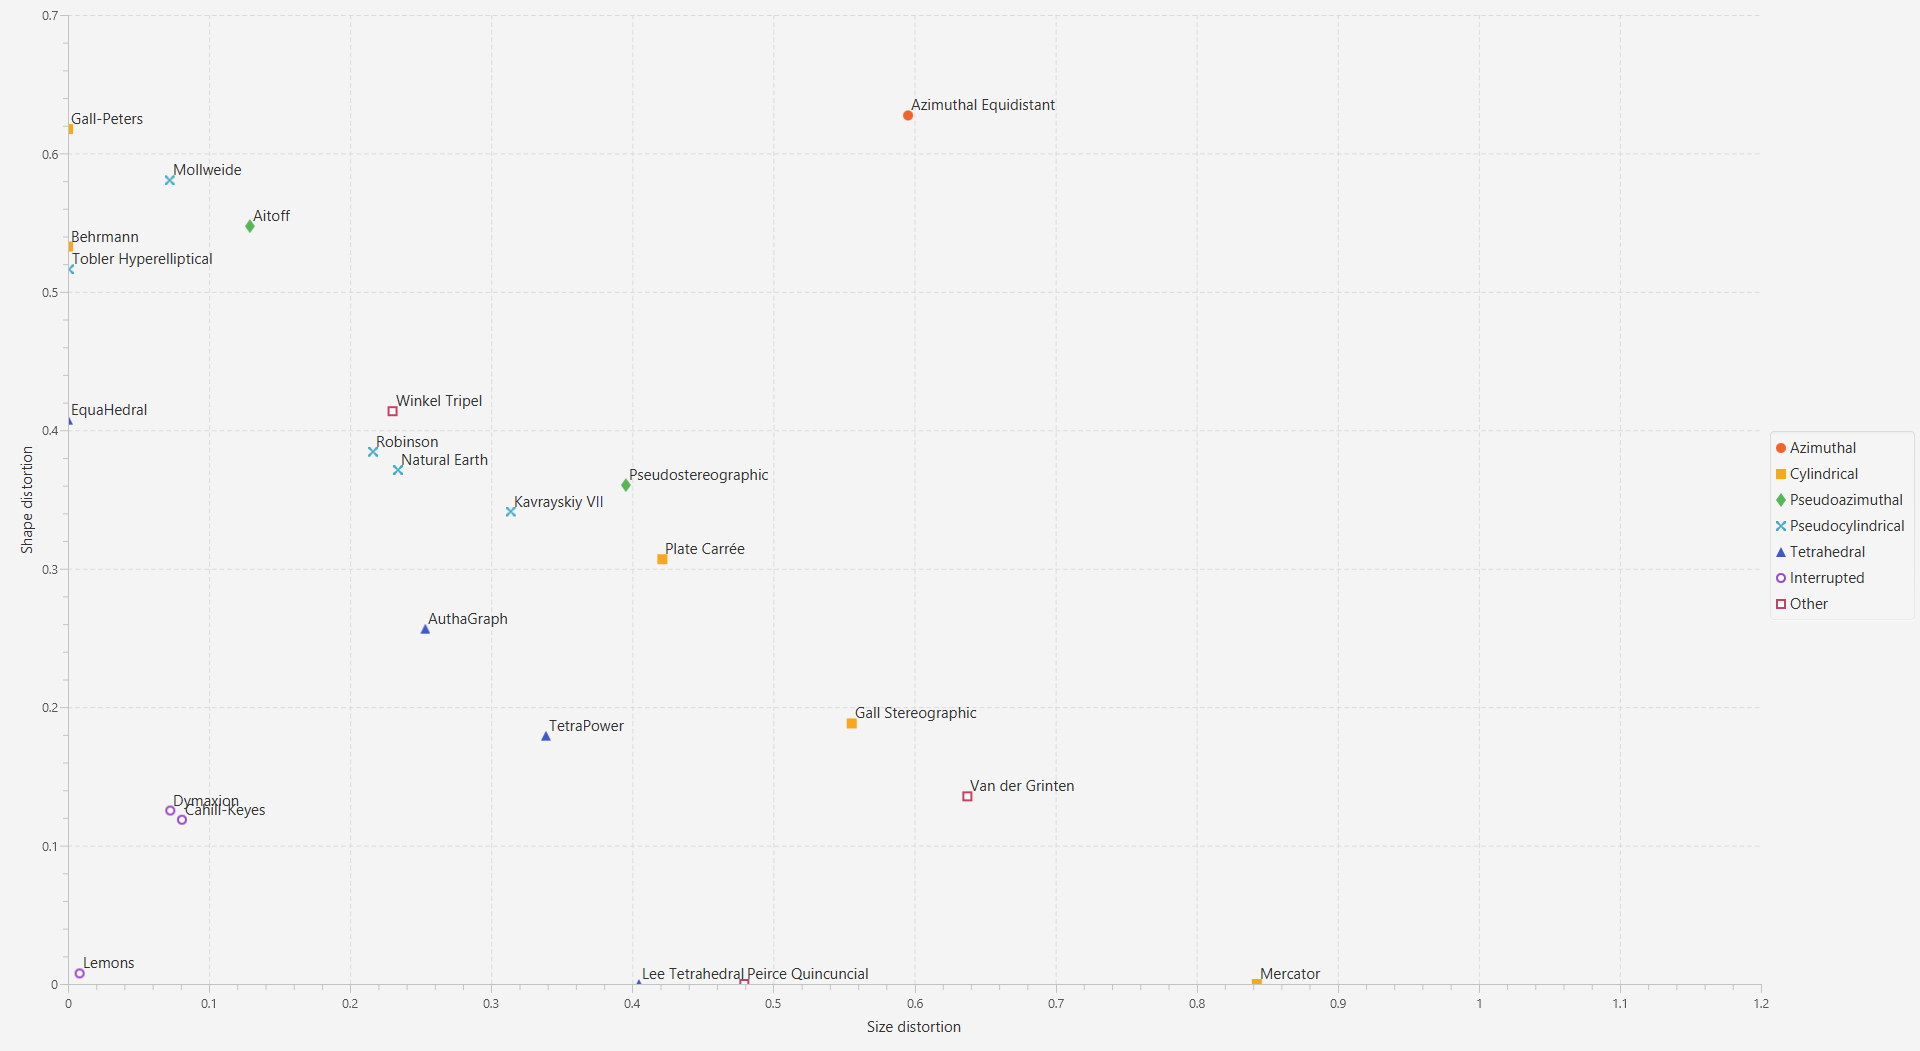
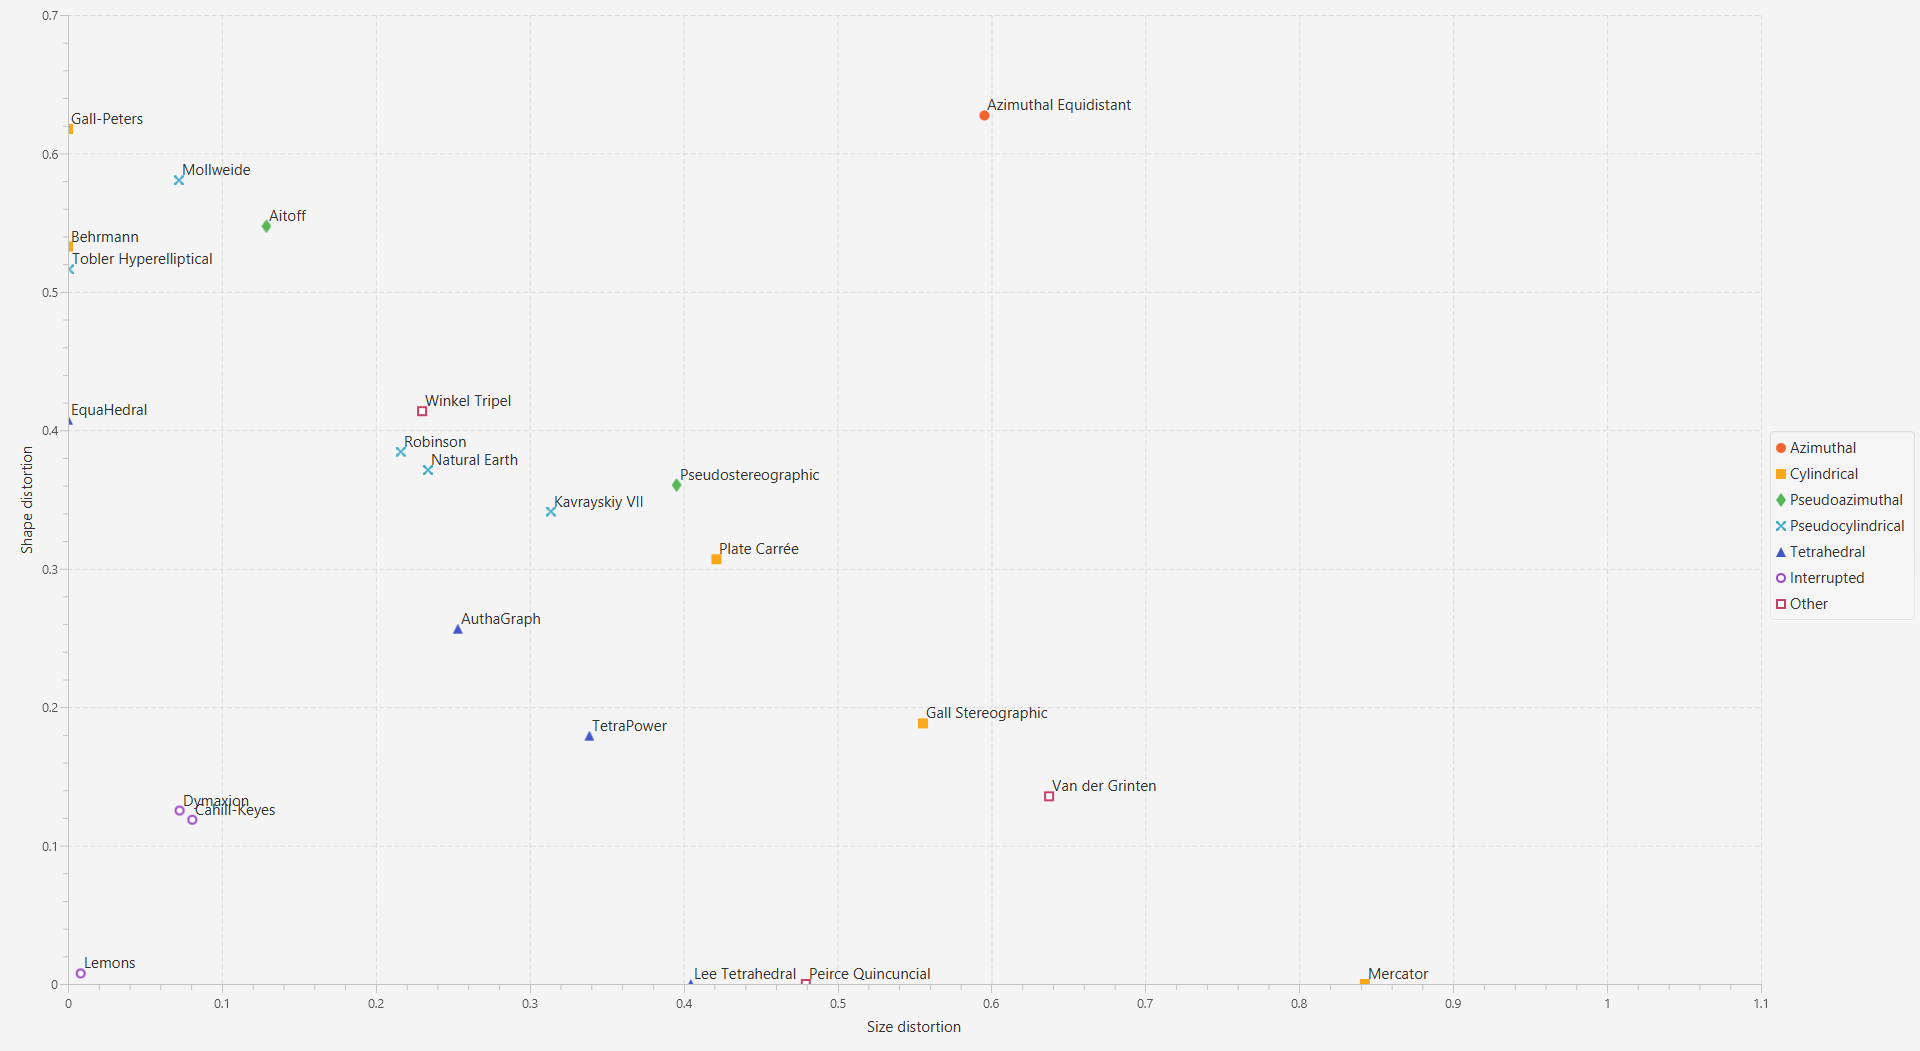
Fine! Select the headers! See if I care!
I changed up the projection selection dialog a bit to have what I think
is slightly more intuitive behaviour.

diff --git a/src/dialogs/ProjectionSelectionDialog.java b/src/dialogs/ProjectionSelectionDialog.java
@@ -27,7 +27,6 @@ import java.util.HashMap;
 import java.util.Map;
 
 import apps.MapApplication;
-import javafx.application.Platform;
 import javafx.scene.Node;
 import javafx.scene.control.ButtonBar.ButtonData;
 import javafx.scene.control.ButtonType;
@@ -83,10 +82,9 @@ public class ProjectionSelectionDialog extends Dialog<Projection> {
 		
 		menu.getSelectionModel().selectedItemProperty().addListener((observable, old, now) -> {
 				if (projMap.containsKey(now)) //selection callback to describe each projection
-					describe(projMap.get(now)); //TODO: get rid of this, let them select category headers
+					describe(projMap.get(now));
 				else if (now != null) {
-					now.setExpanded(!now.isExpanded());
-					Platform.runLater(() -> menu.getSelectionModel().select(old)); //prevent them from selecting headers
+					describe(null);
 				}
 			});
 		menu.setCellFactory((tView) -> { //factoring cells to detect double-clicks
@@ -130,6 +128,12 @@ public class ProjectionSelectionDialog extends Dialog<Projection> {
 	
 	
 	private void describe(Projection p) {
+		if (p == null) {
+			flow.getChildren().clear();
+			text.getChildren().clear();
+			return;
+		}
+		
 		final Text head = new Text(p.getName()+"\n");
 		head.setFont(Font.font(head.getFont().getFamily(), FontWeight.BOLD, 18));
 		final Text body = new Text(p.getDescription());

diff --git a/src/apps/MapDesignerVector.java b/src/apps/MapDesignerVector.java
@@ -243,8 +243,8 @@ public class MapDesignerVector extends MapApplication {
 				case 'L':
 				case 'T':
 					for (int i = 0; i < args.length; i += 2)
-						if (Math.hypot(args[i+0]-lastX, args[i+1]-lastY) < IMG_WIDTH/6) // break lines that are too long
-							g.lineTo(args[i+0], args[i+1]);
+						if (Math.hypot(args[i+0]-lastX, args[i+1]-lastY) < IMG_WIDTH/4) // break lines that are too long
+							g.lineTo(args[i+0], args[i+1]); //TODO: I really need to actually look for interruptions or something
 						else
 							g.moveTo(args[i+0], args[i+1]);
 					break;
@@ -259,7 +259,7 @@ public class MapDesignerVector extends MapApplication {
 								args[i+0], args[i+1], args[i+2], args[i+3], args[i+4], args[i+5]);
 					break;
 				case 'Z':
-					if (Math.hypot(startX-lastX, startY-lastY) < IMG_WIDTH/6)
+					if (Math.hypot(startX-lastX, startY-lastY) < IMG_WIDTH/4)
 						g.lineTo(startX, startY);
 					break;
 				default:

diff --git a/src/maps/Polyhedral.java b/src/maps/Polyhedral.java
@@ -164,7 +164,7 @@ public class Polyhedral {
 	};
 	
 	
-	public static final PolyhedralProjection ACTUAUTHAGRAPH =
+	public static final PolyhedralProjection ACTUAUTHAGRAPH = //TODO: I hate to do this to myself, but I think I need to revamp this to have differently-shaped cutouts
 			new PolyhedralProjection(
 					"EquaHedral", "A holey authalic tetrahedral projection to put AuthaGraph to shame.",
 					0b1010, Configuration.TETRAHEDRON_WIDE_VERTEX, Property.EQUAL_AREA,
@@ -258,7 +258,6 @@ public class Polyhedral {
 		}
 		
 		public double[] faceProject(double lat, double lon) {
-			if (Math.abs(lon) > Math.PI/5) 	throw new IllegalArgumentException("That's not possible!");
 			double xG = Math.cos(lon)/Math.tan(lat)/cos36; //normalised gnomonic coordinates
 			double yG = Math.sin(lon)/Math.tan(lat)/sin36;
 			double a = Math.asin((xG+yG)/(2*Math.sqrt(1+xG*xG))) + Math.atan(xG); //angular distance up each side of the triangle

diff --git a/src/apps/MapPlotter.java b/src/apps/MapPlotter.java
@@ -98,7 +98,7 @@ public class MapPlotter extends Application {
 	public void start(Stage root) {
 		final ScatterChart<Number, Number> plot =
 				new ScatterChart<Number, Number>(
-				new NumberAxis("Size distortion", 0, 1.2, 0.1),
+				new NumberAxis("Size distortion", 0, 1.1, 0.1),
 				new NumberAxis("Shape distortion", 0, 0.7, 0.1));
 		plot.setLegendSide(Side.RIGHT);
 		final AnchorPane overlay = new AnchorPane();
